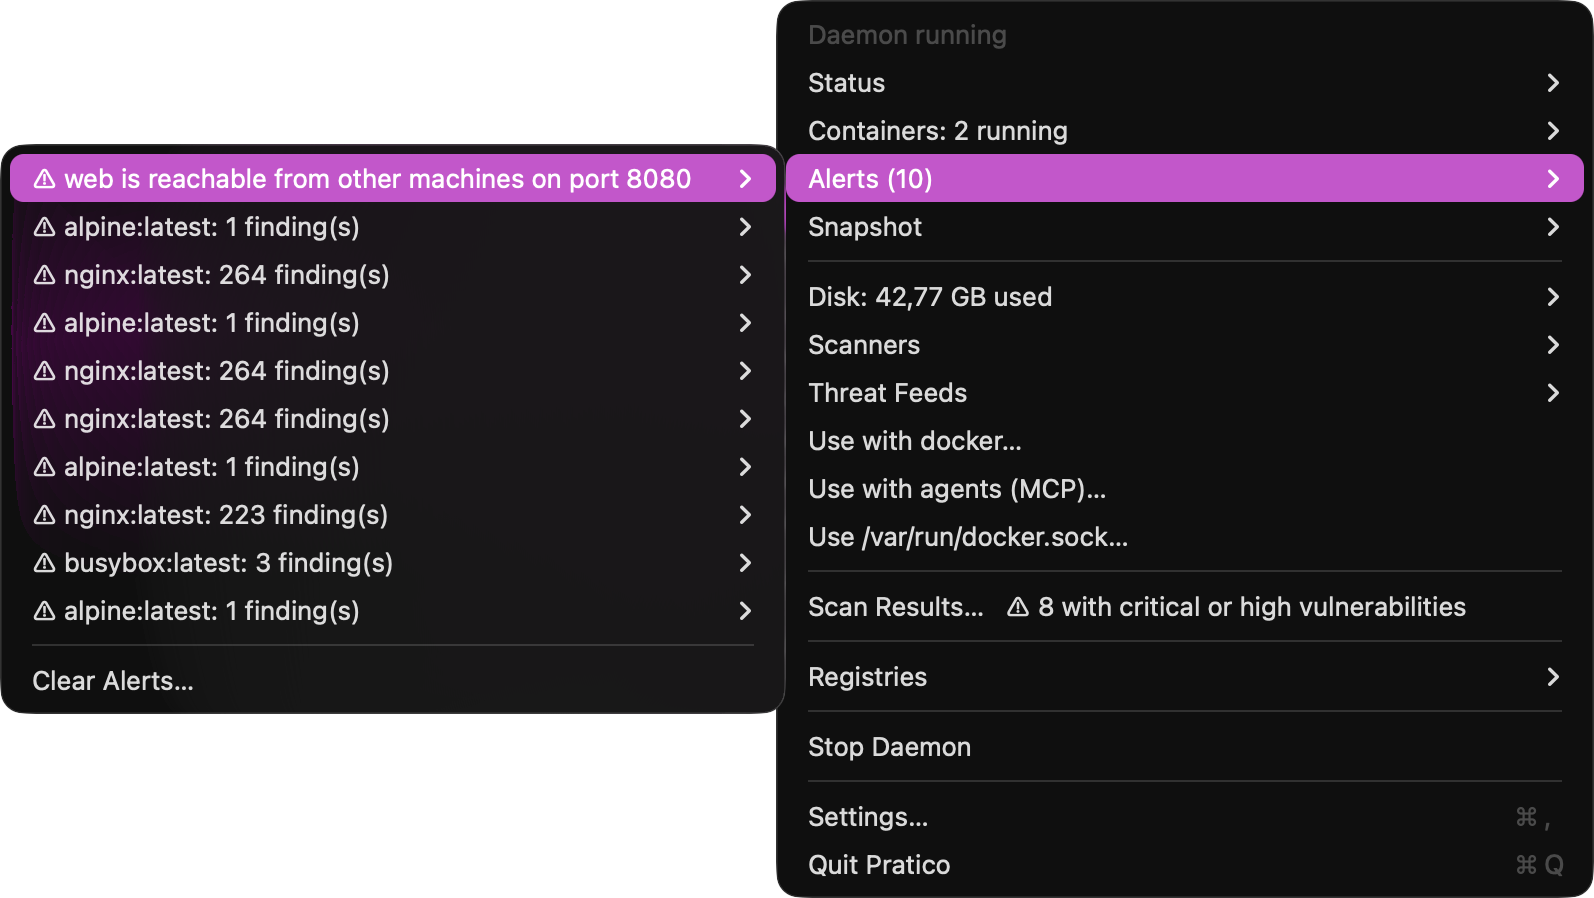
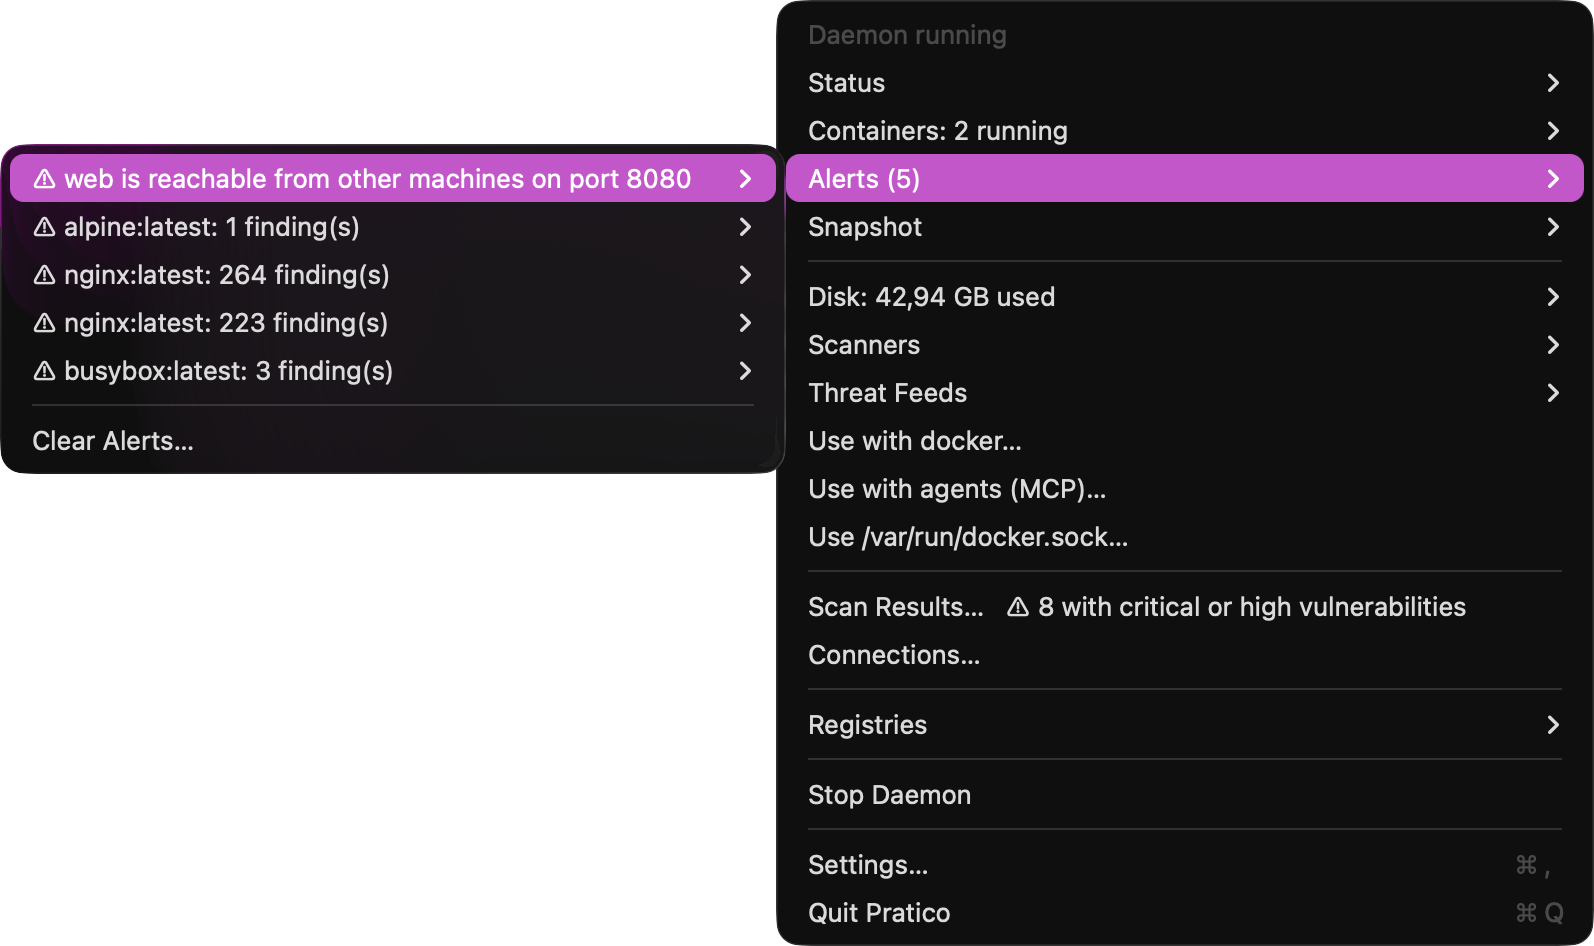
docs(site): connections window, current menubar
Claude-Session: https://claude.ai/code/session_01GWEZ8e9k5t3ZLEPtFhvqLU

diff --git a/site/index.html b/site/index.html
@@ -183,8 +183,8 @@
       </div>
       <p class="fine">Apple silicon · macOS 26 · Free and open source (MIT)</p>
       <figure class="shot">
-        <img src="img/menu-alerts.png" width="1594" height="898" alt="Pratico's menubar menu with its Alerts submenu open: a container reachable from other machines on port 8080, and pulled images with findings.">
-        <figcaption>The menubar: containers, alerts, disk, scanners, and threat feeds.</figcaption>
+        <img src="img/menu-alerts.png" width="1594" height="946" alt="Pratico's menubar menu with its Alerts submenu open: a container reachable from other machines on port 8080, and pulled images with findings.">
+        <figcaption>The menubar: containers, alerts, disk, scanners, threat feeds, scan results, and connections.</figcaption>
       </figure>
     </div>
     <div class="wrap">
@@ -274,7 +274,12 @@
         <div><h3>Names, not addresses</h3><p>Each network answers DNS for its containers and aliases, and passes other names to your Mac's resolver.</p></div>
         <div><h3>Ports you can see</h3><p>Published ports are opened on your Mac by pratico. The menubar warns when one is reachable from your network, not only from this Mac.</p></div>
         <div><h3>Disconnect means disconnected</h3><p>Taking a running container off a network cuts that address at the switch. Nothing inside the VM can bring it back.</p></div>
+        <div><h3>Every connection, and who made it</h3><p>The Connections window lists where each container connected, the process inside it that opened each connection, and what pratico refused and why.</p></div>
       </div>
+      <figure class="shot spaced">
+        <img src="img/connections.png" width="1920" height="1064" loading="lazy" alt="Pratico's Connections window: two containers' connections with the process behind each, pip and python3 in one, curl in the other, and two refused by the container's egress allowlist, with the reason shown below.">
+        <figcaption>Connections: each destination, the process that reached it, and the refusals with their reason.</figcaption>
+      </figure>
     </div>
   </section>
 
